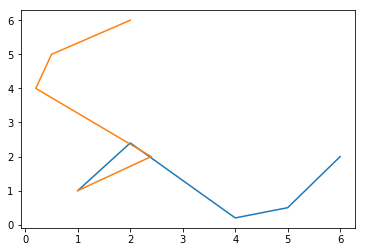
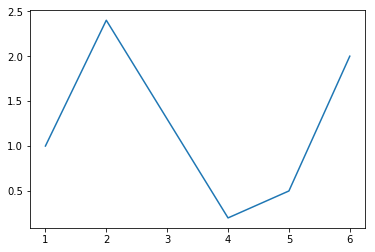
småforandringer

diff --git a/pages/02_dag1/plotting_les_fra_fil/plotting_les_fra_fil.md b/pages/02_dag1/plotting_les_fra_fil/plotting_les_fra_fil.md
@@ -20,7 +20,7 @@ show()
 ```
 
 
-![png](output_2_0.png)
+    <matplotlib.figure.Figure at 0x59dac50>
 
 
 Nå skal vi legge til et print-statement så du ser hva variabelen t faktisk inneholder
@@ -39,7 +39,7 @@ print(t)
 
 ### Underveisoppgave 
 
-Endre t fra 30 til 10 punkter. Beskriv hva det gjorde med plottet ditt. 
+Endre t fra 30 til 4 punkter. Beskriv hva det gjorde med plottet ditt. 
 
 
 ### Lister med verdier
@@ -51,13 +51,13 @@ Nå tenker vi at vi har data fra logging eller et eksperiment. Noen tider og noe
 tid = [1,2,3,4,5,6]     # Lager to lister, tid og posisjon
 posisjon = [1.0, 2.4, 1.3, 0.2, 0.5, 2.0]
 plot(tid,posisjon)      # Plotter tid på 1.aksen og posisjon på 2.aksen 
-plot(posisjon,tid)      # Plotter posisjon på 1.aksen og tid på 2.aksen
+# plot(posisjon,tid)      # Plotter posisjon på 1.aksen og tid på 2.aksen
 ```
 
 
 
 
-    [<matplotlib.lines.Line2D at 0x8afdef0>]
+    [<matplotlib.lines.Line2D at 0x8edb518>]
 
 
 
@@ -89,7 +89,7 @@ Da må vi konvertere fra liste til vektor (array) før vi ganger med 2.
 
 
 ```python
-nytid=array(tid)      #konverterer fra liste til vektor
+nytid=array(tid)      #konverterer fra liste til vektor (casting)
 nytid=2*nytid
 print(nytid)
 ```
@@ -148,7 +148,7 @@ Les gjennom program linje for linje og forklar hva som blir gjort.
 
 ```python
 from pylab import *
-vinkel = linspace(0, 2*math.pi, 100)  #vektor går fra 0 til 2pi, med 100 steg i mellom
+vinkel = linspace(0, 2*pi, 100)  #vektor går fra 0 til 2pi, med 100 steg i mellom
 sinus=sin(vinkel)                     #husk at vinkelen må være i radianer
 
 plot(vinkel, sinus, c="magenta")
@@ -165,6 +165,36 @@ plot(vinkel, sinus, c="magenta")
 ![png](output_16_1.png)
 
 
+Programmet hadde blitt både mer lesbart og fleksibelt om vi deklarerer variable først. Da kan det se slik ut: 
+
+
+```python
+from pylab import *
+
+#Deklarer variable
+start = 0
+slutt = 2*pi
+N = 100
+
+#Lager vektorer
+vinkel = linspace(start, slutt, N)  #vektor går fra 0 til 2pi, med 100 steg i mellom
+sinus=sin(vinkel)                     #husk at vinkelen må være i radianer
+
+#Plotter vektorene mot hverandre
+plot(vinkel, sinus, c="green")
+```
+
+
+
+
+    [<matplotlib.lines.Line2D at 0x8097828>]
+
+
+
+
+![png](output_18_1.png)
+
+
 
 >Elever har ikke alltid et like bevisst forhold til om vinkler gis i grader eller radianer. Det kan derfor være nyttig å vite hvoran python konverterer mellom de to. Eller du kan  gi elevene i oppgave å lage en funksjon i python som gjør denne konverteringen. 
 Uansett hvilken tilnærming du velger i klassen: Her ser du hvordan du kan konvertere til radianer slik at den innebygde funksjonen *sin*  regner riktig når vinkelmålet blir gitt i grader. 
@@ -174,7 +204,7 @@ Uansett hvilken tilnærming du velger i klassen: Her ser du hvordan du kan konve
 ```python
 from pylab import *
 
-a = sin(math.radians(30))
+a = sin(radians(30))
 print("Sinus av 30 grader =",a)
 
 ```
@@ -221,12 +251,49 @@ posisjon = data[:,1]
 loadtxt har mange muligheter som vi ikke har gått inn på her. Du kan f.eks. hoppe over et gitt antall rader, velge ut spesifikke kolonner etc. 
 Hvis du googler "numpy loadtxt" så kan du finne en nettside fra SciPy.org som forklarer dette nærmere. Prøv deg frem :)
 
+Du kan også bestemme hva slags datatype de innleste verdiene skal være. Hvis du ikke gir beskjed, så blir de flyttall. 
+
+
+```python
+#Lese fra fil og bestem typen til dataene
+from pylab import *       #må ha med denne for å bruke funksjonen loadtxt
+data = loadtxt("tidogposisjon_profag.txt")     #husk at du må ha filen tilgjengelig
+print("Nå har jeg ikke skrevet noe bestemt. Da blir det flyttall \n", data)
+data = loadtxt("tidogposisjon_profag.txt", int)     #husk at du må ha filen tilgjengelig
+print("Nå har jeg bestemt at dataene mine skal være heltall \n", data)
+data = loadtxt("tidogposisjon_profag.txt", str)     #husk at du må ha filen tilgjengelig
+print("Nå har jeg bestemt at dataene mine skal være strenger \n", data)
+```
+
+    Nå har jeg ikke skrevet noe bestemt. Da blir det flyttall 
+     [[1.  1. ]
+     [2.  2.4]
+     [3.  1.3]
+     [4.  0.2]
+     [5.  0.5]
+     [6.  2. ]]
+    Nå har jeg bestemt at dataene mine skal være heltall 
+     [[1 1]
+     [2 2]
+     [3 1]
+     [4 0]
+     [5 0]
+     [6 2]]
+    Nå har jeg bestemt at dataene mine skal være strenger 
+     [['1' '1.0']
+     ['2' '2.4']
+     ['3' '1.3']
+     ['4' '0.2']
+     ['5' '0.5']
+     ['6' '2.0']]
+    
+
 ### Underveisoppgaver
 1. Forklar hva programmet ovenfor (lese fra fil) gjør ved å lage kommentarer i programmet. Hva kommer til å ligge i variabelen tid? Og hva vil ligge i variabelen posisjon? Sjekk om du hadde rett.
 
 2. Skriv ut de tre variablene data, tid og posisjon og forklar det du ser. 
 
-3. Hva skje om du bytter ut tid = data[:,0] med tid = data[1:3,0]?
+3. Hva skjer om du bytter ut tid = data[:,0] med tid = data[1:3,0]?
 
 4. Hvordan kan du lage vektorer som dropper de to første verdiene i begge kolonner?
 
